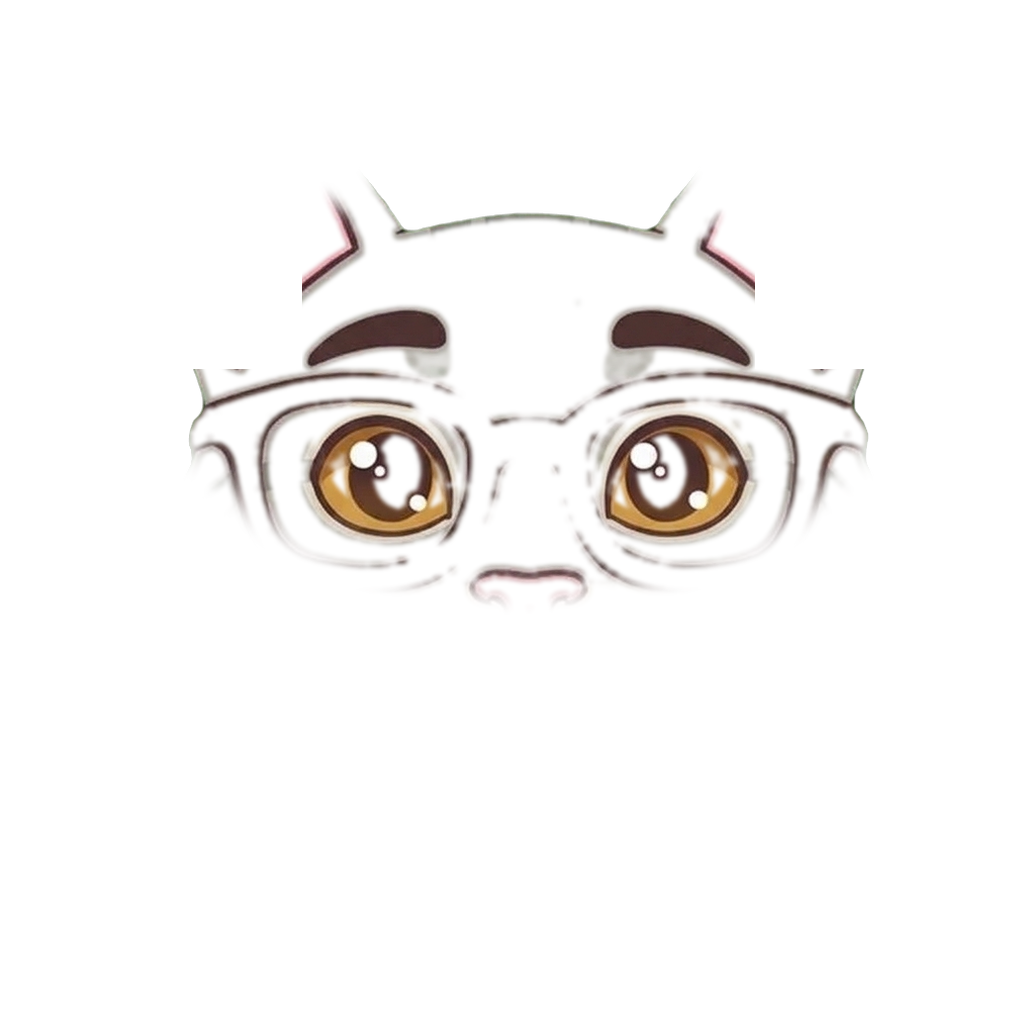
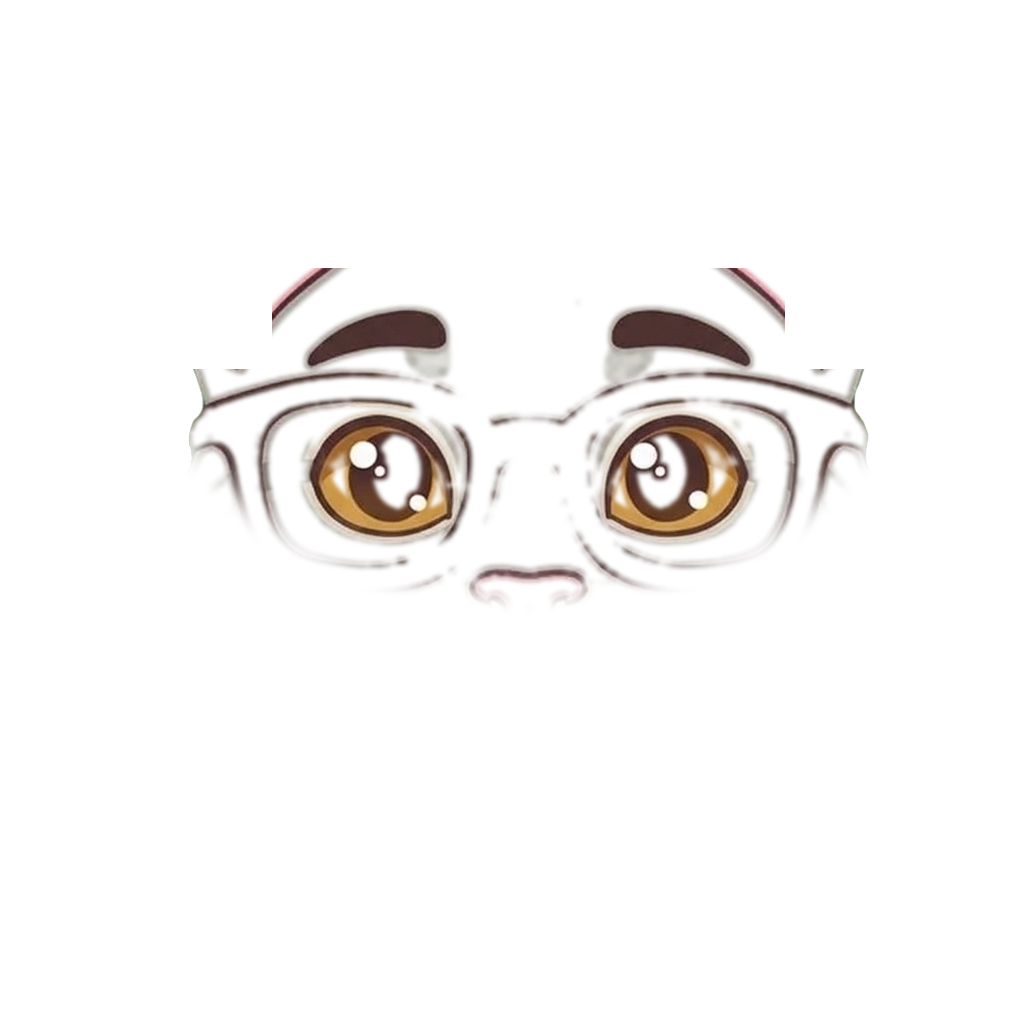
v4: ojos sueltos: recorte de esquinas ajustado
Claude-Session: https://claude.ai/code/session_01NybaBEBQ36CdbDeKLNGsjf

Changed region(s): [[0.25, 0.1875, 0.5938, 0.3125], [0.5938, 0.1875, 0.7812, 0.3125]]

diff --git a/factory/mascot/v4/parts_eyes_single.py b/factory/mascot/v4/parts_eyes_single.py
@@ -43,7 +43,8 @@ def main():
         d = Image.fromarray((np.clip((diff - 28) / 32, 0, 1) * 255).astype(np.uint8)).filter(ImageFilter.MaxFilter(7)).filter(ImageFilter.GaussianBlur(2))
         a = a * np.asarray(d) / 255
         yy, xx = np.mgrid[0:size[1], 0:size[0]]
-        a[(yy < gb[1] - 5) & ((xx < gb[0] + 110) | (xx > gb[2] - 110))] = 0      # las orejas de Gemini no se cuelan por las esquinas de la frente
+        a[(yy < gb[1] - 5) & ((xx < gb[0] + 80) | (xx > gb[2] - 80))] = 0      # las orejas de Gemini no se cuelan por las esquinas de la frente
+        a[yy < 268] = 0                                                     # nada por encima de las cejas
         p.putalpha(Image.fromarray(a.astype(np.uint8)))
         p.save(os.path.join(S, f"eyes_{name}.png")); print(name, "escala", round(sc, 3))
         t = Image.new("RGBA", size, (255, 255, 255, 255)); t.alpha_composite(base); t.alpha_composite(p)
